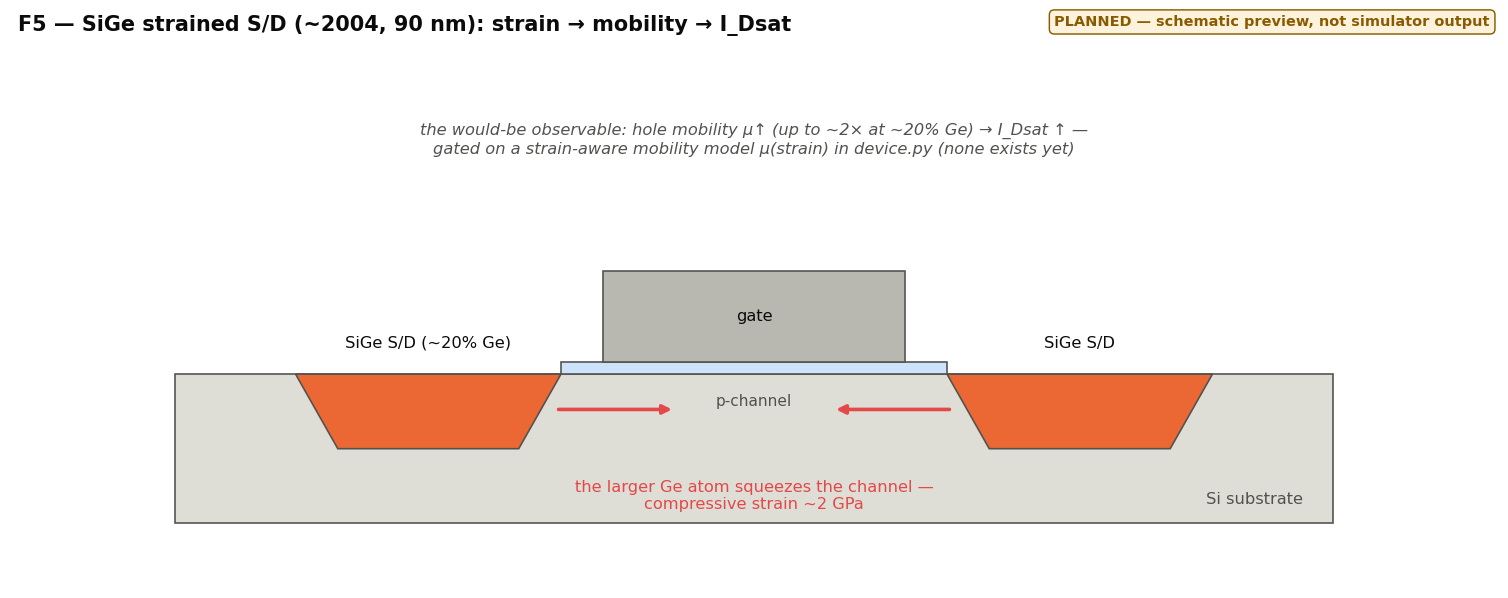
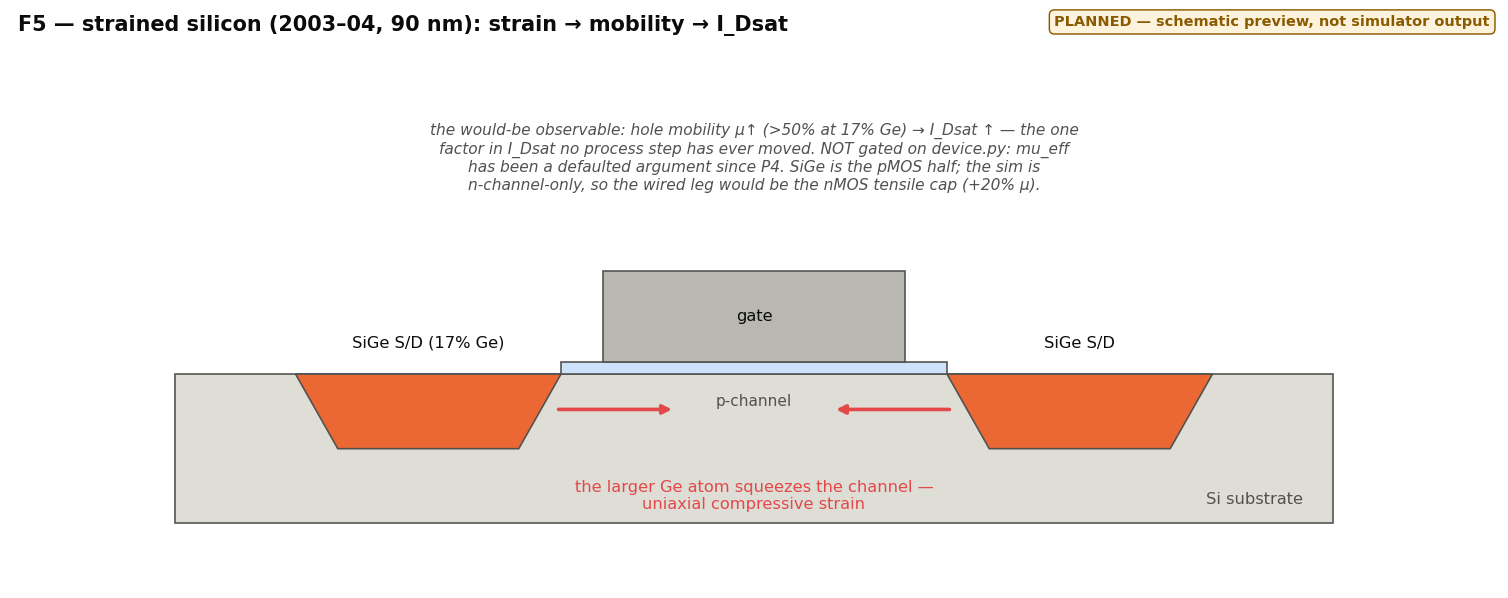
docs(roadmap): F5 — correct a card whose gate had been open the whole time
Writing the F5 plan falsified F5's own roadmap card. Three claims, carried on the
published page AND stamped into the schematic image, were stale or never sourced:

  * "gated on a strain-aware mobility model mu(strain) in device.py (none exists
    yet)" — FALSE. saturation_current has taken a defaulted mu_eff since P4, so
    the seam predates the slice and device.py needs no change at all.
  * "hole mobility up to ~2x at ~20% Ge" — the BIAXIAL range top. The cited
    uniaxial S/D result is >50% at 17% Ge. Never round a win up (F4's
    floor_decades rule, in mobility's currency).
  * "compressive strain ~2 GPa" — not pinned by any source at the house bar.
    Dropped rather than softened.

The card also now states the carrier fork, which is the era's actual answer: SiGe
S/D is the pMOS half and the simulator is n-channel-only, so the wired leg would
be the nMOS tensile cap (+20% mu). Status Promotable -> Planned; the card itself
STAYS UP until the last slice, per the graduation rule. Only its false claims go.

Fixed now rather than at S1 because the card<->triage pairing (roadmap_gallery.py:61
keeps gate/observable text verbatim with future-steps.md) was already broken by the
triage edit in 82da1d4 — deferring would have shipped a knowingly-broken invariant
whose only guard is the human convention this very finding shows does not work.

Recorded the general lesson in the SLICES header: a gate is a claim about the
[…]

diff --git a/docs/roadmap.html b/docs/roadmap.html
@@ -141,17 +141,17 @@
         <article class="card">
           <a class="shot" href="figures/roadmap-f5.png" title="open the full schematic (a preview, not simulator output)">
             <span class="ribbon">planned &mdash; schematic</span>
-            <img src="figures/roadmap-f5.png" alt="F5 — SiGe strained source/drain schematic preview (planned, not simulator output)" loading="lazy">
+            <img src="figures/roadmap-f5.png" alt="F5 — Strained silicon (SiGe S/D + tensile cap) schematic preview (planned, not simulator output)" loading="lazy">
           </a>
           <div class="body">
             <div class="tagrow">
-              <span class="tag">F5 &middot; ~2004 · 90 nm</span>
-              <span class="status ok">Promotable</span>
+              <span class="tag">F5 &middot; 2003–04 · 90 nm</span>
+              <span class="status ok">Planned — not built</span>
             </div>
-            <p class="blurb"><strong>SiGe strained source/drain.</strong> The strain era: embedded SiGe pockets squeeze the p-channel (~2 GPa at ~20% Ge), and hole mobility — hence drive current — rises.</p>
+            <p class="blurb"><strong>Strained silicon (SiGe S/D + tensile cap).</strong> The strain era: embedded SiGe pockets put the p-channel under uniaxial compression (17% Ge) and hole mobility — hence drive current — rises. The n-channel wants the opposite sign, so one node needed two processes.</p>
             <div class="facts">
-              <div class="row"><span class="k would">Would add</span><p class="v">Mobility → I_Dsat through a strain-aware µ model — the channel-strain rung of the era ladder.</p></div>
-              <div class="row"><span class="k gate">Gated on</span><p class="v">A µ(strain) mobility model in device.py — none exists yet. With F4 shipped it is now the head of this queue.</p></div>
+              <div class="row"><span class="k would">Would add</span><p class="v">Mobility → I_Dsat: the one factor in I_Dsat no process step has ever moved (µ has been a module constant since Phase 4). The channel-strain rung of the era ladder, and the first device number that moves without changing a dopant, a thickness or a length.</p></div>
+              <div class="row"><span class="k gate">Gated on</span><p class="v">PLANNED 2026-08-10 (docs/plans/strained-silicon-f5.md) — the gate this card used to record is LIFTED. It read &#x27;a µ(strain) model in device.py, none exists yet&#x27;; in fact saturation_current has taken a defaulted mu_eff since P4, so the seam predates the slice and device.py needs no change. What remains is the build.</p></div>
             </div>
             <div class="links">
               <code>docs/plans/future-steps.md</code>

diff --git a/docs/roadmap.local.html b/docs/roadmap.local.html
@@ -142,17 +142,17 @@
         <article class="card">
           <a class="shot" href="figures/roadmap-f5.png" title="open the full schematic (a preview, not simulator output)">
             <span class="ribbon">planned &mdash; schematic</span>
-            <img src="figures/roadmap-f5.png" alt="F5 — SiGe strained source/drain schematic preview (planned, not simulator output)" loading="lazy">
+            <img src="figures/roadmap-f5.png" alt="F5 — Strained silicon (SiGe S/D + tensile cap) schematic preview (planned, not simulator output)" loading="lazy">
           </a>
           <div class="body">
             <div class="tagrow">
-              <span class="tag">F5 &middot; ~2004 · 90 nm</span>
-              <span class="status ok">Promotable</span>
+              <span class="tag">F5 &middot; 2003–04 · 90 nm</span>
+              <span class="status ok">Planned — not built</span>
             </div>
-            <p class="blurb"><strong>SiGe strained source/drain.</strong> The strain era: embedded SiGe pockets squeeze the p-channel (~2 GPa at ~20% Ge), and hole mobility — hence drive current — rises.</p>
+            <p class="blurb"><strong>Strained silicon (SiGe S/D + tensile cap).</strong> The strain era: embedded SiGe pockets put the p-channel under uniaxial compression (17% Ge) and hole mobility — hence drive current — rises. The n-channel wants the opposite sign, so one node needed two processes.</p>
             <div class="facts">
-              <div class="row"><span class="k would">Would add</span><p class="v">Mobility → I_Dsat through a strain-aware µ model — the channel-strain rung of the era ladder.</p></div>
-              <div class="row"><span class="k gate">Gated on</span><p class="v">A µ(strain) mobility model in device.py — none exists yet. With F4 shipped it is now the head of this queue.</p></div>
+              <div class="row"><span class="k would">Would add</span><p class="v">Mobility → I_Dsat: the one factor in I_Dsat no process step has ever moved (µ has been a module constant since Phase 4). The channel-strain rung of the era ladder, and the first device number that moves without changing a dopant, a thickness or a length.</p></div>
+              <div class="row"><span class="k gate">Gated on</span><p class="v">PLANNED 2026-08-10 (docs/plans/strained-silicon-f5.md) — the gate this card used to record is LIFTED. It read &#x27;a µ(strain) model in device.py, none exists yet&#x27;; in fact saturation_current has taken a defaulted mu_eff since P4, so the seam predates the slice and device.py needs no change. What remains is the build.</p></div>
             </div>
             <div class="links">
               <code>docs/plans/future-steps.md</code>

diff --git a/chip/roadmap_figures.py b/chip/roadmap_figures.py
@@ -84,10 +84,20 @@ def _rect(ax, x, y, w, h, fc, ec=INK2, lw=0.9, z=2):
 
 
 # --------------------------------------------------------------------------------------------- #
-# F5 — SiGe strained source/drain (~2004, 90 nm)
+# F5 — strained silicon; SiGe S/D is the pMOS half (2003–04, 90 nm)
+#
+# CORRECTED 2026-08-10 when the F5 plan was written (docs/plans/strained-silicon-f5.md). Three claims
+# stamped into this figure had gone stale or were never sourced at the house bar:
+#   * "gated on a µ(strain) model in device.py (none exists yet)" — FALSE. saturation_current has taken a
+#     defaulted mu_eff since P4, so the seam predates the slice and device.py needs no change at all.
+#   * "up to ~2× at ~20% Ge" — the BIAXIAL range top. The cited uniaxial S/D result is >50% at 17% Ge;
+#     the house rule is never to round a win up (F4's floor_decades, in mobility's currency).
+#   * "compressive strain ~2 GPa" — not pinned by any source at this project's bar. Dropped, not softened.
+# The mechanism drawing is unchanged; only the claims are. Keep the caption honest about the carrier fork:
+# SiGe is the pMOS half and the simulator is n-channel-only, so the WIRED leg is the nMOS tensile cap.
 # --------------------------------------------------------------------------------------------- #
 def _draw_f5(fig) -> None:
-    _chrome(fig, "F5 — SiGe strained S/D (~2004, 90 nm): strain → mobility → I_Dsat")
+    _chrome(fig, "F5 — strained silicon (2003–04, 90 nm): strain → mobility → I_Dsat")
     ax = _bare(fig.add_axes((0.02, 0.02, 0.96, 0.84)), xlim=(0, 12), ylim=(0, 6.4))
 
     _rect(ax, 1.2, 0.8, 9.6, 1.9, SI_GRAY)                        # substrate
@@ -97,7 +107,7 @@ def _draw_f5(fig) -> None:
         import matplotlib.patches as mp
         ax.add_patch(mp.Polygon([(x0, 2.7), (xd, 2.7), (xd - 0.35, 1.75), (x0 + 0.35, 1.75)],
                                 closed=True, facecolor=ORANGE, edgecolor=INK2, linewidth=0.9, zorder=3))
-    ax.text(3.3, 3.0, "SiGe S/D (~20% Ge)", ha="center", va="bottom", fontsize=9, color=INK)
+    ax.text(3.3, 3.0, "SiGe S/D (17% Ge)", ha="center", va="bottom", fontsize=9, color=INK)
     ax.text(8.7, 3.0, "SiGe S/D", ha="center", va="bottom", fontsize=9, color=INK)
     # the channel + gate stack
     _rect(ax, 4.4, 2.7, 3.2, 0.16, BLUE_PALE)                     # gate oxide
@@ -109,11 +119,13 @@ def _draw_f5(fig) -> None:
                 arrowprops=dict(arrowstyle="-|>", color=RED, lw=2.0))
     ax.annotate("", xy=(6.65, 2.25), xytext=(7.65, 2.25),
                 arrowprops=dict(arrowstyle="-|>", color=RED, lw=2.0))
-    ax.text(6.0, 1.35, "the larger Ge atom squeezes the channel —\ncompressive strain ~2 GPa",
+    ax.text(6.0, 1.35, "the larger Ge atom squeezes the channel —\nuniaxial compressive strain",
             ha="center", va="top", fontsize=9, color=RED)
-    ax.text(6.0, 5.9, "the would-be observable: hole mobility µ↑ (up to ~2× at ~20% Ge) → I_Dsat ↑ —\n"
-                      "gated on a strain-aware mobility model µ(strain) in device.py (none exists yet)",
-            ha="center", va="top", fontsize=9, color=INK2, style="italic")
+    ax.text(6.0, 5.9, "the would-be observable: hole mobility µ↑ (>50% at 17% Ge) → I_Dsat ↑ — the one\n"
+                      "factor in I_Dsat no process step has ever moved. NOT gated on device.py: mu_eff\n"
+                      "has been a defaulted argument since P4. SiGe is the pMOS half; the sim is\n"
+                      "n-channel-only, so the wired leg would be the nMOS tensile cap (+20% µ).",
+            ha="center", va="top", fontsize=8.5, color=INK2, style="italic")
 
 
 # --------------------------------------------------------------------------------------------- #

diff --git a/chip/roadmap_gallery.py b/chip/roadmap_gallery.py
@@ -83,16 +83,31 @@ class Slice:
 # card promised was not on the page until the last slice landed. Built work now lives on history-mode
 # B9 + chip.interconnect. Do not re-add either card. F5 heads the promotable queue, and F4's build
 # RELEASED F8's gate — see its card below, which is the first hold on this page to be lifted.
+#
+# A GATE IS A CLAIM ABOUT THE CURRENT TREE, AND THE TREE MOVES UNDER IT (2026-08-10). Writing the F5
+# plan falsified F5's own card: it recorded "a µ(strain) model in device.py — none exists yet", but
+# saturation_current has taken a defaulted mu_eff since P4, so that gate had been open the whole time.
+# That is the SECOND gate on this page found already-released, after F8's — and both times it was found
+# by someone going to build the slice, never by a test. Nothing here pins gate↔reality: the manifest
+# guard pins card↔schematic and the golden tests pin page↔renderer, so between them they confirm the
+# prose did not CHANGE, never that it is still TRUE (F4-S4's named failure mode). ⇒ when a slice is
+# picked up, RE-CHECK ITS GATE AGAINST THE TREE FIRST. Corrections land here and in roadmap_figures.py
+# together, since the stale claims are stamped into the schematic too.
 SLICES = [
     Slice(
-        fid="F5", era="~2004 · 90 nm", title="SiGe strained source/drain",
-        status="Promotable", badge="ok",
-        blurb="The strain era: embedded SiGe pockets squeeze the p-channel (~2 GPa at ~20% Ge), "
-              "and hole mobility — hence drive current — rises.",
-        would_add="Mobility → I_Dsat through a strain-aware µ model — the channel-strain rung of "
-                  "the era ladder.",
-        gate="A µ(strain) mobility model in device.py — none exists yet. With F4 shipped it is "
-             "now the head of this queue.",
+        fid="F5", era="2003–04 · 90 nm", title="Strained silicon (SiGe S/D + tensile cap)",
+        status="Planned — not built", badge="ok",
+        blurb="The strain era: embedded SiGe pockets put the p-channel under uniaxial compression "
+              "(17% Ge) and hole mobility — hence drive current — rises. The n-channel wants the "
+              "opposite sign, so one node needed two processes.",
+        would_add="Mobility → I_Dsat: the one factor in I_Dsat no process step has ever moved "
+                  "(µ has been a module constant since Phase 4). The channel-strain rung of the "
+                  "era ladder, and the first device number that moves without changing a dopant, "
+                  "a thickness or a length.",
+        gate="PLANNED 2026-08-10 (docs/plans/strained-silicon-f5.md) — the gate this card used to "
+             "record is LIFTED. It read 'a µ(strain) model in device.py, none exists yet'; in fact "
+             "saturation_current has taken a defaulted mu_eff since P4, so the seam predates the "
+             "slice and device.py needs no change. What remains is the build.",
     ),
     Slice(
         fid="F6", era="bipolar epi · CMOS wells", title="Epitaxy (buried layer / retrograde well)",
